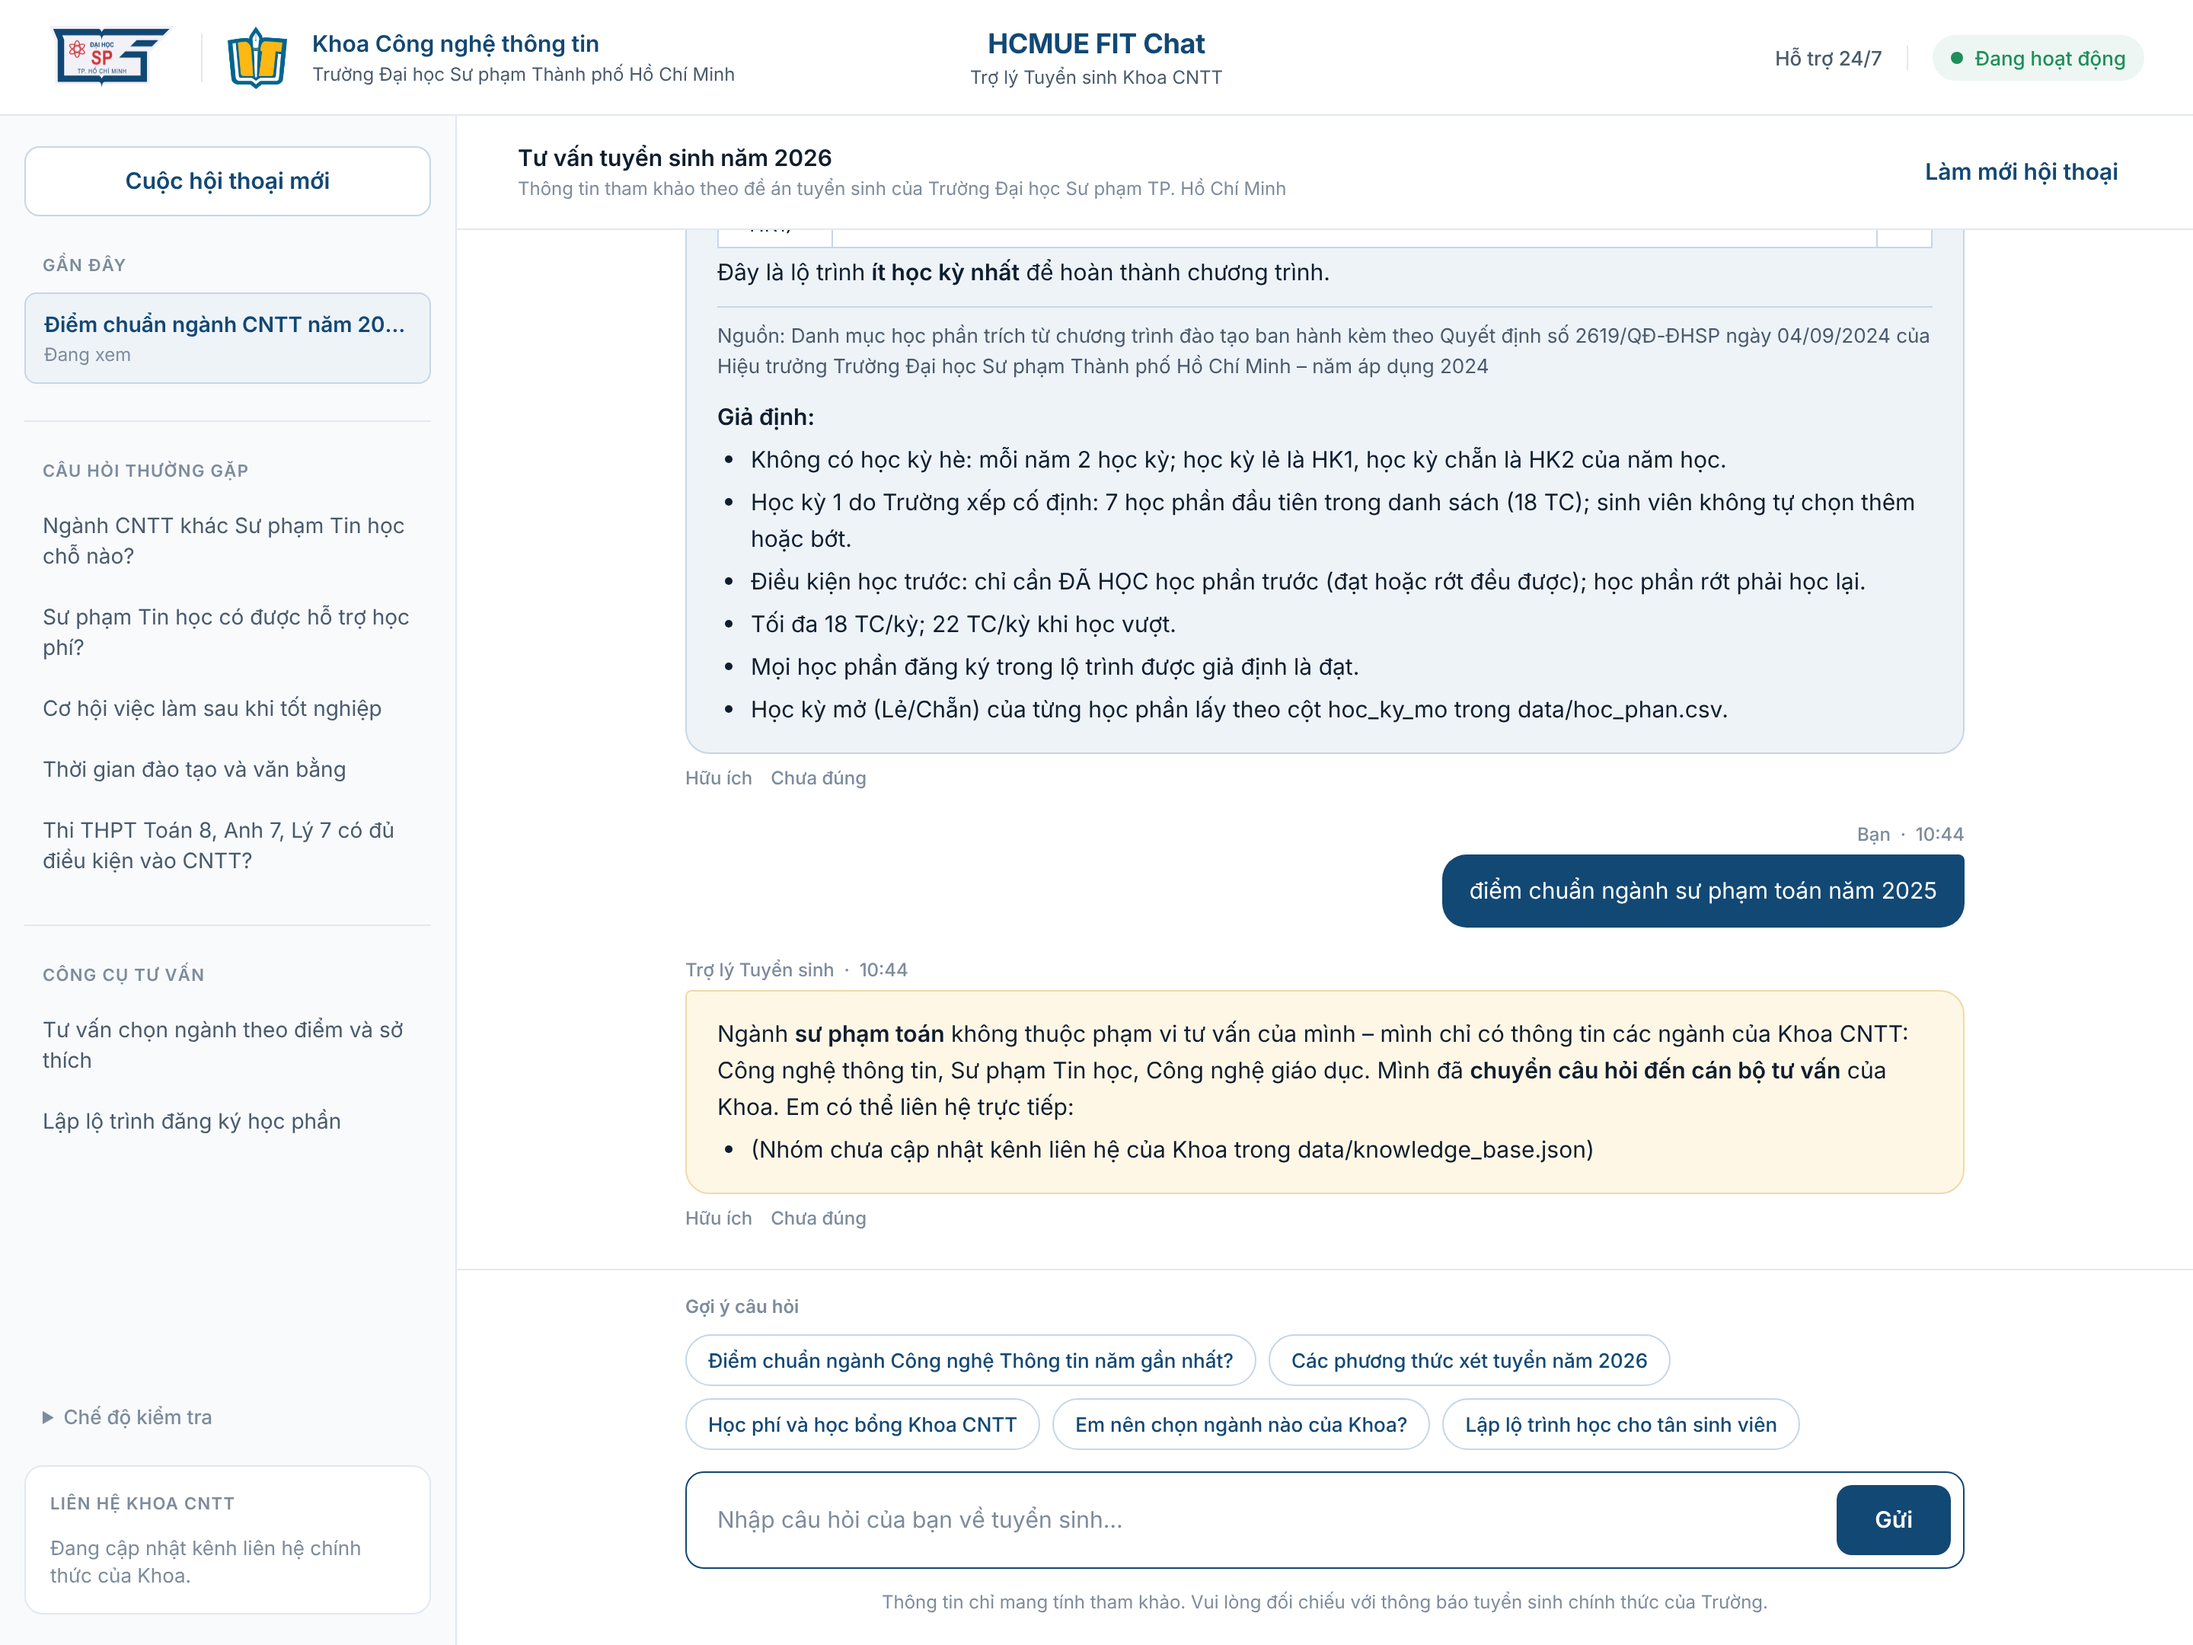
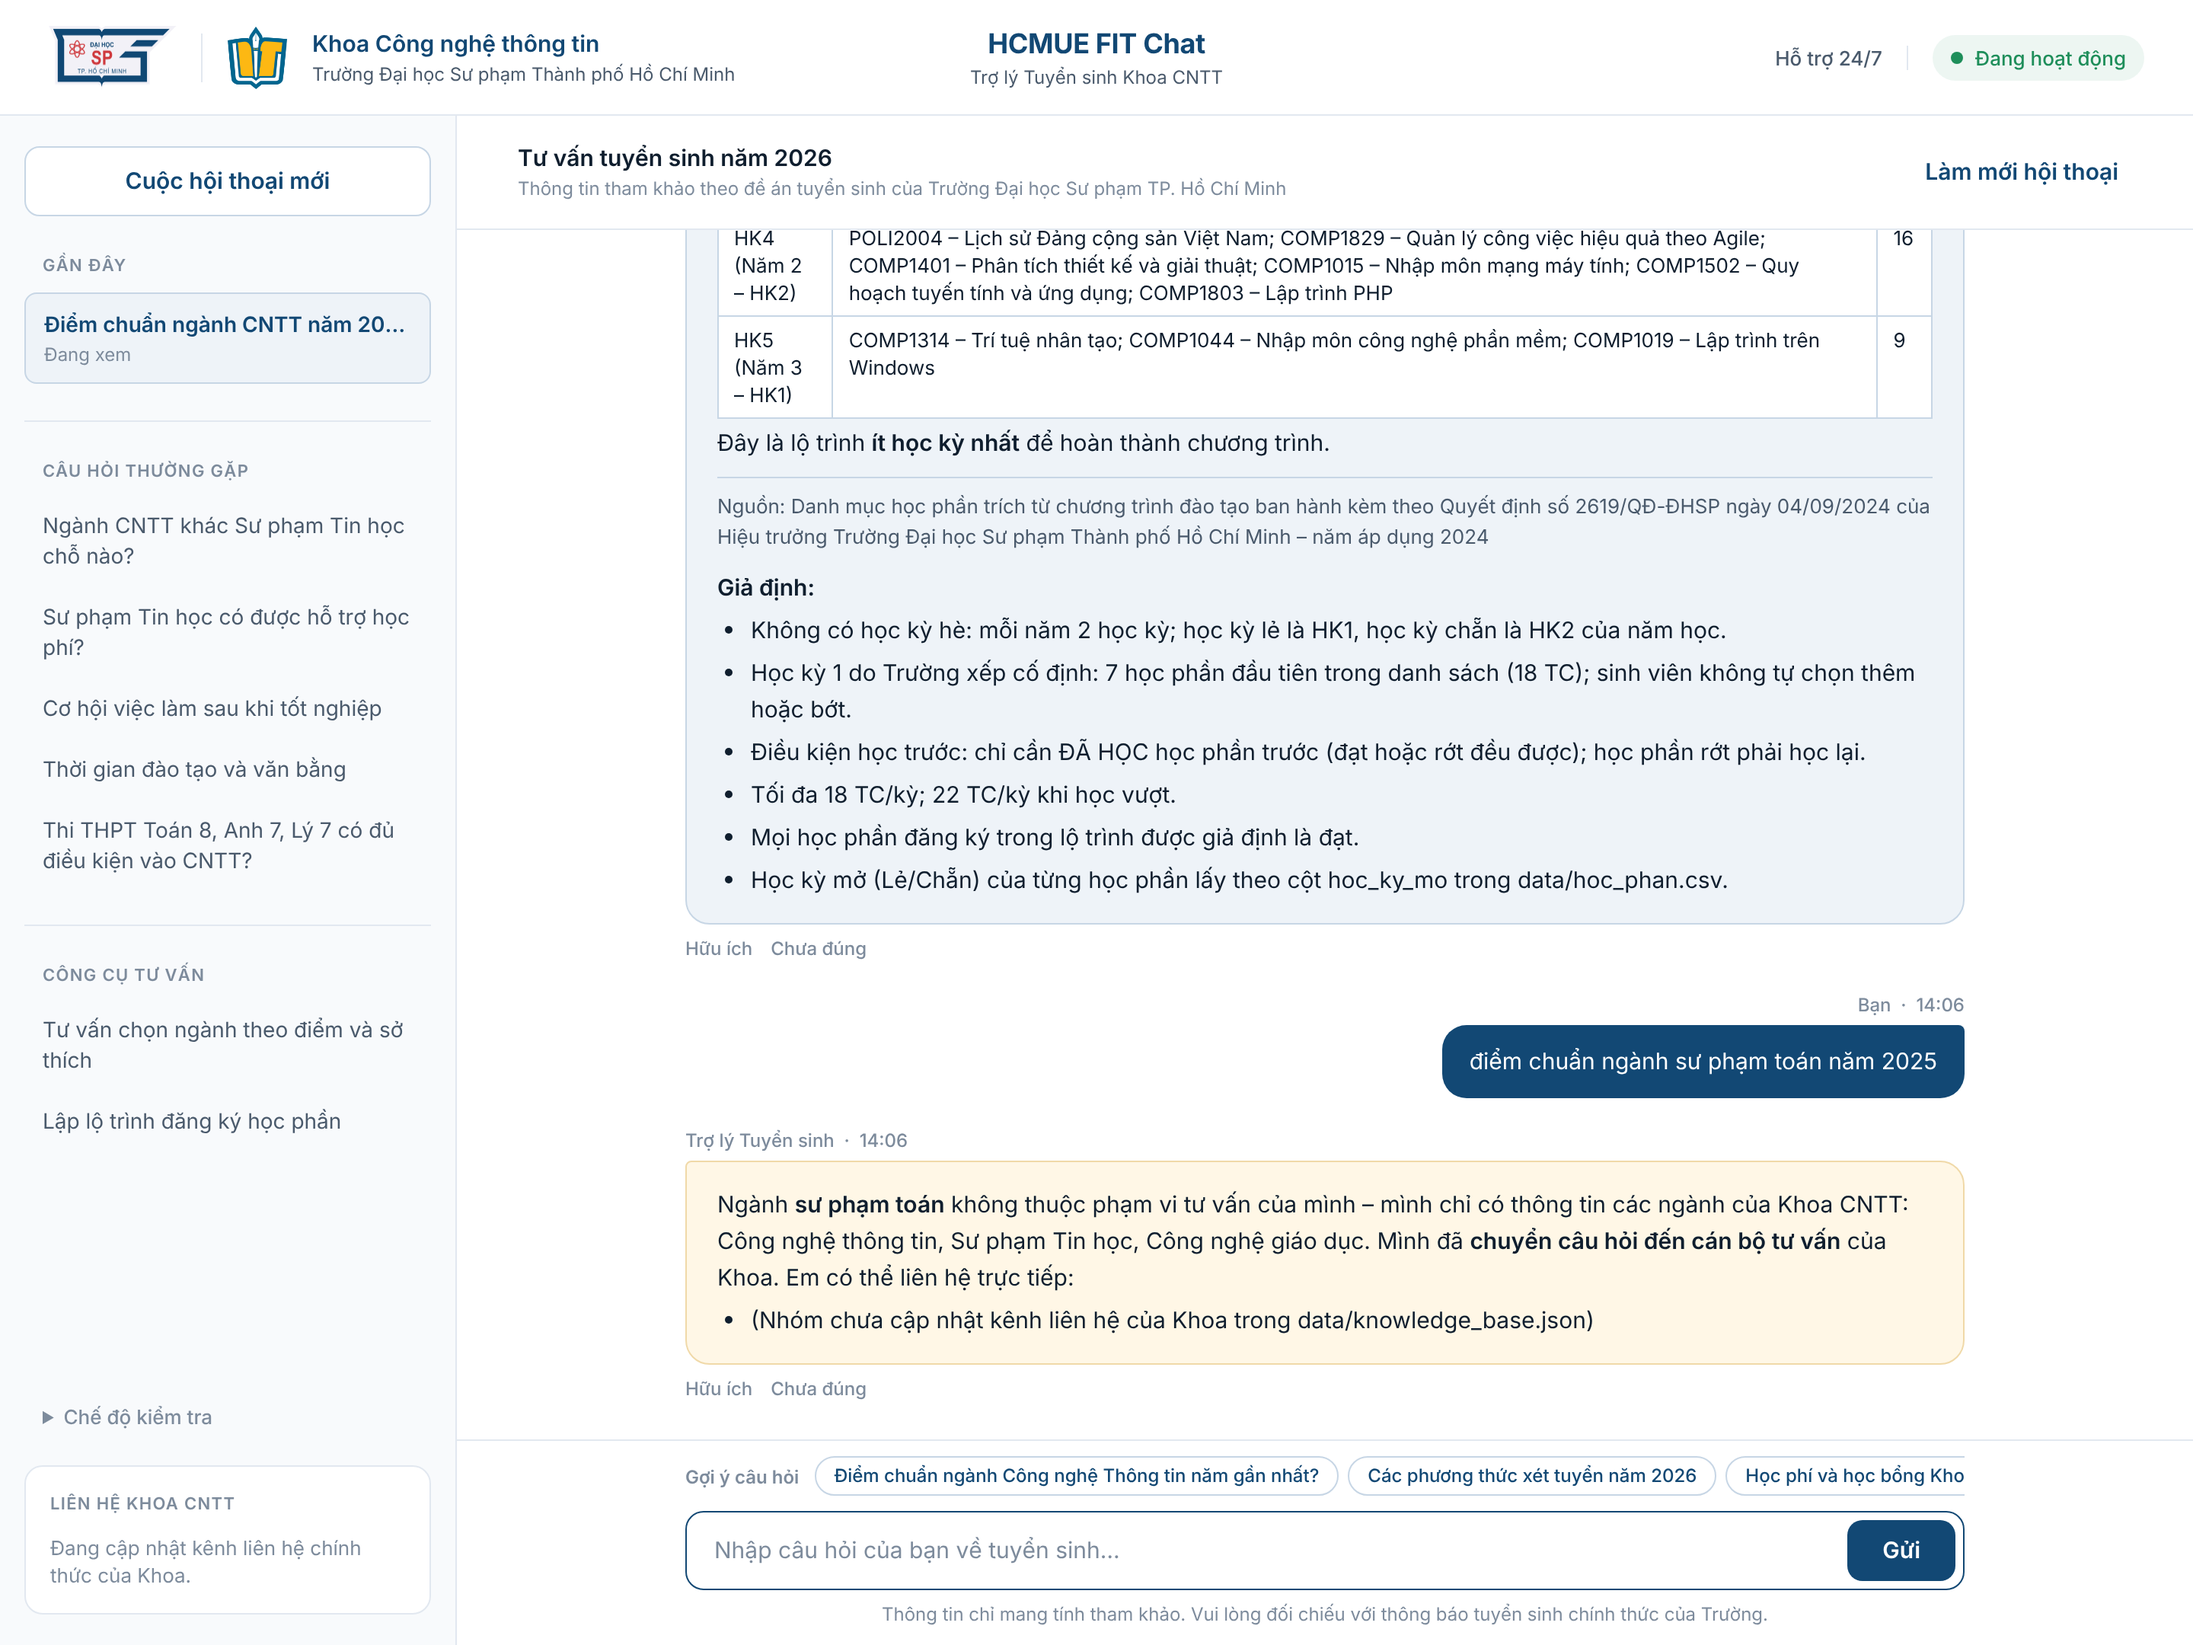
Giao diện: bỏ cảnh báo với số liệu từ fanpage, thu gọn gợi ý câu hỏi, đổi nhãn kiểm tra đủ điều kiện
Claude-Session: https://claude.ai/code/session_018JoVY2yuYEbWbmjCXAkQAX

Changed region(s): [[0.3125, 0.1241, 0.9062, 0.9926]]

diff --git a/static/css/style.css b/static/css/style.css
@@ -181,20 +181,27 @@ button, input, select, textarea { font: inherit; color: inherit; }
 /* ---------------------------------------------------------------- composer */
 .composer {
   flex: none; border-top: 1px solid var(--border); background: var(--surface);
-  padding: 16px 40px 20px; display: flex; flex-direction: column; align-items: center; gap: 14px;
+  padding: 10px 40px 12px; display: flex; flex-direction: column; align-items: center; gap: 8px;
 }
-.suggest { width: 100%; max-width: 840px; display: flex; flex-direction: column; gap: 10px; }
-.suggest-label { font-weight: 600; font-size: 12px; line-height: 16px; color: var(--text-tertiary); }
-.chips { display: flex; flex-wrap: wrap; gap: 8px; }
+/* Gợi ý câu hỏi gọn trong MỘT hàng (cuộn ngang) để vùng hội thoại rộng hơn */
+.suggest { width: 100%; max-width: 840px; display: flex; flex-direction: row; align-items: center; gap: 10px; min-width: 0; }
+.suggest-label { font-weight: 600; font-size: 12px; line-height: 16px; color: var(--text-tertiary); white-space: nowrap; flex: none; }
+.chips {
+  display: flex; flex-wrap: nowrap; gap: 6px; overflow-x: auto; min-width: 0; padding-bottom: 2px;
+  scrollbar-width: thin; scrollbar-color: var(--primary-border) transparent;
+}
+.chips::-webkit-scrollbar { height: 4px; }
+.chips::-webkit-scrollbar-thumb { background: var(--primary-border); border-radius: 4px; }
 .chip {
-  background: var(--surface); border: 1px solid var(--primary-border); border-radius: 999px; padding: 7px 14px;
-  font-weight: 500; font-size: 13px; line-height: 18px; color: var(--primary); cursor: pointer; white-space: nowrap;
+  background: var(--surface); border: 1px solid var(--primary-border); border-radius: 999px; padding: 3px 12px;
+  font-weight: 500; font-size: 12px; line-height: 18px; color: var(--primary); cursor: pointer; white-space: nowrap; flex: none;
 }
 .chip:hover { background: var(--primary-subtle); }
 .input-box {
   width: 100%; max-width: 840px; display: flex; align-items: center; gap: 12px;
-  border: 1.5px solid var(--primary-border); border-radius: 12px; padding: 8px 8px 8px 20px; background: var(--surface);
+  border: 1.5px solid var(--primary-border); border-radius: 12px; padding: 5px 5px 5px 18px; background: var(--surface);
 }
+.input-box .btn-primary { padding: 8px 22px; }
 .input-box:focus-within { border-color: var(--primary); }
 .input-box textarea {
   flex: 1; border: 0; outline: none; resize: none; font-size: 15px; line-height: 22px; max-height: 132px;
@@ -268,7 +275,7 @@ button, input, select, textarea { font: inherit; color: inherit; }
   .date-sep p { font-size: 11px; line-height: 14px; }
   .bubble { font-size: 14px; line-height: 21px; }
   .msg.bot .bubble { padding: 12px 14px; }
-  .composer { padding: 12px 0 28px; gap: 10px; align-items: stretch; }
+  .composer { padding: 8px 0 14px; gap: 8px; align-items: stretch; }
   .suggest { padding: 0; }
   .suggest-label { display: none; }
   .chips { flex-wrap: nowrap; overflow-x: auto; padding: 0 16px; scrollbar-width: none; }

diff --git a/templates/index.html b/templates/index.html
@@ -182,7 +182,7 @@
       {% for k, ten in dinh_huong %}<label class="choice"><input type="checkbox" name="dinh_huong" value="{{ k }}"> {{ ten }}</label>{% endfor %}
     </fieldset>
     <div class="field">
-      <label for="kiem_tra_nganh">Kiểm tra đủ điều kiện ngành (suy diễn lùi)</label>
+      <label for="kiem_tra_nganh">Kiểm tra đủ điều kiện ngành</label>
       <select id="kiem_tra_nganh" name="kiem_tra_nganh">
         <option value="">(không kiểm tra)</option>
         {% for c, ten in nganh %}<option value="{{ c }}">{{ ten }}</option>{% endfor %}

diff --git a/src/chatbot/kb.py b/src/chatbot/kb.py
@@ -64,7 +64,7 @@ def cite(fact: dict) -> str:
     if fact.get("url"):
         line += f" ([link]({fact['url']}))"
     if not fact.get("da_kiem_chung", False):
-        line += "  \nLưu ý: số liệu chưa được đối chiếu với nguồn chính thức."
+        line += "  \nLưu ý: số liệu mẫu, nhóm chưa cập nhật nguồn chính thức."
     return line
 
 

diff --git a/README.md b/README.md
@@ -124,8 +124,8 @@ tests/                  pytest + kịch bản hội thoại tests/scenarios.yaml
 | File | Nội dung | Nguồn | Giấy phép / ghi chú |
 |---|---|---|---|
 | `data/hoc_phan.csv` | 28 học phần (75 TC) | Chương trình đào tạo ban hành kèm Quyết định 2619/QĐ-ĐHSP ngày 04/09/2024, Trường ĐHSP TP.HCM | Văn bản công khai của Trường; nhóm trích để học tập. Cột `hoc_ky_mo` cần ghi rõ lấy từ CTĐT hay mô phỏng |
-| `data/tuyen_sinh_2026.json` | Tổ hợp, ngưỡng, điểm chuẩn 2026 (tham số C2) | Nhóm tổng hợp từ tài liệu "Thông tin tuyển sinh" | **Chưa đối chiếu Đề án tuyển sinh chính thức** (`da_kiem_chung: false`) |
-| `data/knowledge_base.json` | Cơ sở tri thức của chatbot (mỗi mục có `nguon`, `nam`) | Như trên + fanpage tuyển sinh | Nhiều mục là **mẫu**, chatbot hiển thị cảnh báo "chưa đối chiếu" |
+| `data/tuyen_sinh_2026.json` | Tổ hợp, ngưỡng, điểm chuẩn 2026 (tham số C2) | Nhóm tổng hợp từ fanpage tuyển sinh của Trường (link trong file) | Trường không ban hành công văn riêng; nhóm xác nhận fanpage là nguồn chính thức (`da_kiem_chung: true`) |
+| `data/knowledge_base.json` | Cơ sở tri thức của chatbot (mỗi mục có `nguon`, `nam`) | Fanpage tuyển sinh, Cổng Chính phủ (điểm chuẩn, tổ hợp 2024–2026: đã kiểm chứng) | 9 mục học phí, học bổng, KTX, CTĐT, việc làm, thủ tục vẫn là **mẫu** – chatbot ghi "Lưu ý: số liệu mẫu" |
 | `data/survey.csv` | 15 mẫu khảo sát, 4 thuộc tính (ID3) | Nhóm tự khảo sát | Dữ liệu ẩn danh của nhóm, dùng cho học tập |
 | `data/intents.csv` | 660 câu, 11 ý định | Nhóm tự viết / thu thập | Dữ liệu của nhóm, dùng cho học tập. Khai báo câu do LLM gợi ý (nếu có) trong báo cáo |
 | `data/out_of_scope.csv` | 82 câu ngoài phạm vi | Nhóm tự viết | Như trên |

diff --git a/docs/C4_CHATBOT.md b/docs/C4_CHATBOT.md
@@ -59,8 +59,9 @@ nội dung người dùng được escape. Hội thoại lưu trong bộ nhớ m
 | tu_van_chon_nganh | có ngành + "đủ điều kiện/đậu/vào được" → **suy diễn lùi**; ngược lại → **suy diễn tiến**; thiếu thông tin → luồng hỏi tiếp | C2 |
 | lo_trinh_hoc_tap | luồng hỏi: học kỳ → môn đã đạt → môn rớt → học vượt → `dieu_phoi.lap_lo_trinh()` | C1 |
 
-Mọi câu trả lời có số liệu in `Nguồn: … – năm áp dụng …`; số liệu chưa đối chiếu nguồn chính thức
-(`da_kiem_chung=false`) có thêm dòng cảnh báo.
+Mọi câu trả lời có số liệu in `Nguồn: … – năm áp dụng …`. Điểm chuẩn, tổ hợp lấy từ fanpage tuyển sinh của
+Trường được nhóm xác nhận là nguồn chính thức (`da_kiem_chung=true`, không hiện cảnh báo); các mục còn là
+mẫu (`da_kiem_chung=false`) có thêm dòng "Lưu ý: số liệu mẫu, nhóm chưa cập nhật nguồn chính thức".
 
 ## 3. Ba cơ chế bổ sung cho mô hình (và lý do)
 

diff --git a/docs/C2_TU_VAN_NGANH.md b/docs/C2_TU_VAN_NGANH.md
@@ -46,6 +46,6 @@ số điểm còn thiếu) / Chưa đủ thông tin (dữ kiện cần hỏi –
 
 ## 5. Việc còn lại
 
-- Thay nguồn trong `data/tuyen_sinh_2026.json` bằng Đề án tuyển sinh 2026 chính thức, đặt `da_kiem_chung: true`.
+- Nguồn `data/tuyen_sinh_2026.json`: fanpage tuyển sinh của Trường (Trường không ban hành công văn riêng) – nhóm xác nhận, `da_kiem_chung: true`.
 - Điểm chuẩn và tổ hợp 2024–2026 trong `data/knowledge_base.json` đã khớp với `data/tuyen_sinh_2026.json`
   (có test kiểm tra); khi đổi nguồn chính thức cần sửa cả hai file.
